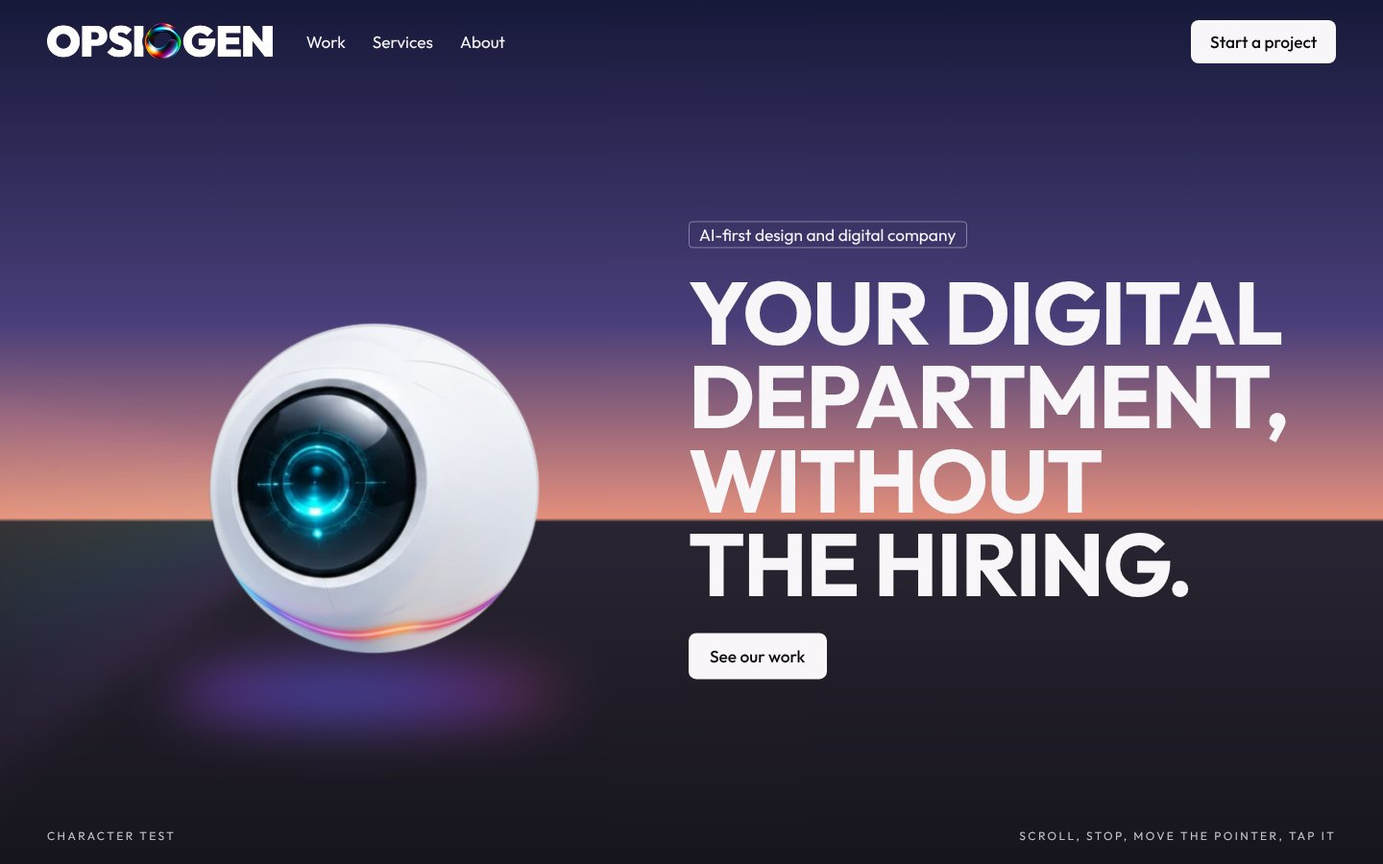
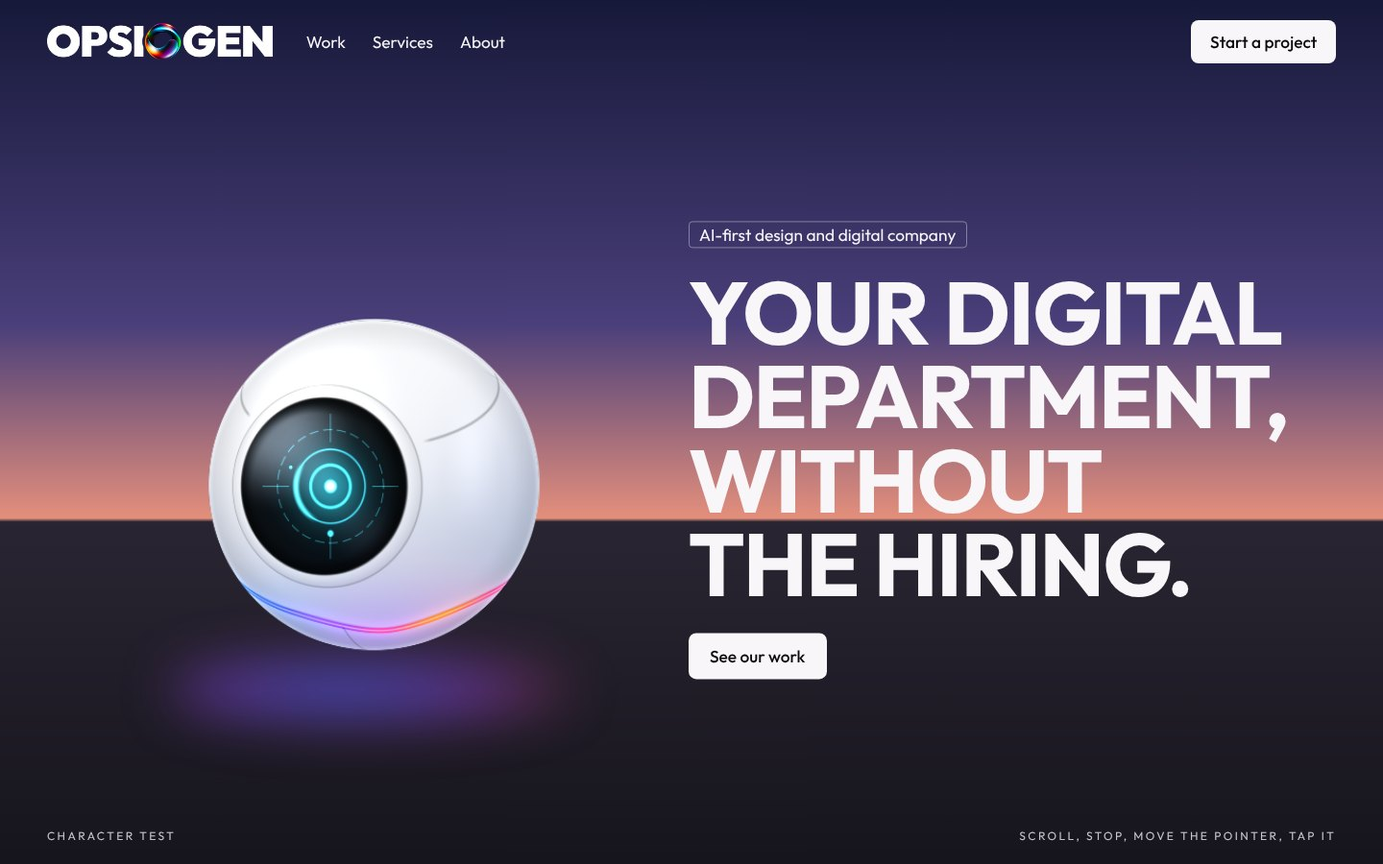
Hero prototype: the character is now a real 3D model, built to the owner's design
Stitching the owner's six small renders could not turn cleanly, so the
character is modelled and drawn live instead: exact and sharp from every
angle. The light tail now streams from its back toward the viewer.

Claude-Session: https://claude.ai/code/session_011BdSE2fEeiEv9ZgoYmWAPn

Changed region(s): [[0.125, 0.3733, 0.4062, 0.7778], [0.2812, 0.3733, 0.3438, 0.4044], [0.25, 0.3422, 0.2812, 0.3733]]

diff --git a/design/hero/orb-proto/index.html b/design/hero/orb-proto/index.html
@@ -43,11 +43,13 @@
   .orb canvas, .orb img { position: absolute; inset: 0; width: 100%; height: 100%; display: block; }
   .ground { position: absolute; left: 6%; right: 6%; bottom: -10%; height: 16%; border-radius: 50%; filter: blur(22px); mix-blend-mode: screen;
     background: radial-gradient(ellipse at 42% 50%, rgb(40 110 255 / 0.7), rgb(150 70 255 / 0.55) 45%, rgb(255 80 170 / 0.3) 62%, rgb(255 80 170 / 0) 76%); will-change: opacity, transform; }
-  /* the light tail: a rainbow beam that streams out behind it while it travels, mixed into the scene as light */
-  .trail { position: absolute; z-index: 3; left: 27%; top: 56%; width: 70vw; height: 70vw; transform-origin: 100% 50%; transform: translate(-100%, -50%) rotate(-13deg); opacity: 0; pointer-events: none; mix-blend-mode: screen; will-change: opacity, transform; }
-  .trail i { position: absolute; inset: 0; filter: blur(clamp(6px, 0.9vw, 14px));
-    background: conic-gradient(from 252deg at 100% 50%, rgb(180 92 255 / 0) 0deg, #b45cff 4deg, #5b7bff 9deg, #37d6ff 14deg, #5ff08a 19deg, #ffe14a 24deg, #ff8a3c 29deg, #ff4f8b 33deg, rgb(255 79 139 / 0) 37deg, transparent 37deg);
-    -webkit-mask-image: linear-gradient(90deg, transparent 4%, rgb(0 0 0 / 0.6) 45%, #000 82%, rgb(0 0 0 / 0.9) 100%); mask-image: linear-gradient(90deg, transparent 4%, rgb(0 0 0 / 0.6) 45%, #000 82%, rgb(0 0 0 / 0.9) 100%); }
+  /* the light tail: it streams from the character's back toward us, low and to the left, widening as it comes.
+     It sits under the character, so it appears from behind its edge. */
+  .trail { position: absolute; z-index: 3; left: 27%; top: 56%; width: 150vmax; height: 150vmax; transform: translate(-50%, -50%); opacity: 0; pointer-events: none; will-change: opacity, transform; }
+  .trail i { position: absolute; inset: 0; filter: blur(clamp(8px, 1.1vw, 18px));
+    background: conic-gradient(from 214deg at 50% 50%, rgb(180 92 255 / 0) 0deg, #b45cff 5deg, #5b7bff 10deg, #37d6ff 15deg, #5ff08a 20deg, #ffe14a 25deg, #ff8a3c 30deg, #ff4f8b 35deg, rgb(255 79 139 / 0) 40deg, transparent 40deg);
+    -webkit-mask-image: radial-gradient(circle at 50% 50%, #000 0, rgb(0 0 0 / 0.95) 9%, rgb(0 0 0 / 0.75) 22%, rgb(0 0 0 / 0.35) 38%, transparent 52%); mask-image: radial-gradient(circle at 50% 50%, #000 0, rgb(0 0 0 / 0.95) 9%, rgb(0 0 0 / 0.75) 22%, rgb(0 0 0 / 0.35) 38%, transparent 52%); }
+  .trail i + i { mix-blend-mode: screen; opacity: 0.7; }
 
   .foot { position: absolute; z-index: 5; inset: auto 0 0; display: flex; align-items: flex-end; justify-content: space-between; gap: 16px; padding: 0 clamp(16px, 3.4vw, 65px) max(22px, env(safe-area-inset-bottom, 0px)); font-size: 12px; letter-spacing: 0.2em; text-transform: uppercase; color: var(--soft); }
 
@@ -55,7 +57,6 @@
     .bar nav { display: none; }
     .words { right: 0; left: 0; top: clamp(84px, 13vh, 130px); transform: none; width: auto; padding-inline: max(20px, env(safe-area-inset-left, 0px)); }
     .orb, .trail { left: 46%; top: 70%; }
-    .trail { width: 90vw; }
     .orb { width: clamp(170px, 54vw, 280px); }
     .foot span:last-child { display: none; }
   }
@@ -75,7 +76,7 @@
       <span class="cta">Start a project</span>
     </div>
 
-    <div class="trail" id="trail"><i></i></div>
+    <div class="trail" id="trail"><i></i><i></i></div>
     <div class="orb" id="orb" role="button" tabindex="0" aria-label="The Opsiogen character. Press to say hello.">
       <div class="ground" id="ground"></div>
       <img id="fallback" src="img/front.webp" alt="">
@@ -96,13 +97,14 @@
 </section>
 
 <section class="after" id="after">
-  <div class="gutter"><p>A test of the character only, on a plain stage. Scroll and it turns to look ahead; stop and it turns back to you. Move the pointer and its eye follows. Tap it and it says hello. The places and our work are added once the script is approved.</p></div>
+  <div class="gutter"><p>A test of the character only, on a plain stage. It is a live 3D model built to the supplied design. Scroll and it turns to look ahead; stop and it turns back to you. Move the pointer and its eye follows. Tap it and it says hello. The places and our work are added once the script is approved.</p></div>
 </section>
 
 <script>
 (function () {
-  // The character is the owner's artwork. Their front, side and back views are wrapped into one map of the whole sphere
-  // (design/hero/character/wrap.py), so it turns as one solid body, lit by the artwork's own soft light.
+  // The character is a real model, built to the owner's design and drawn live: a glossy white sphere, a dark glass eye in a
+  // bevelled ring with cyan instrument light inside, a lit colour strip round the lower body that goes dark across the back,
+  // and fine panel seams. Being a model, it is exact and sharp from every angle; nothing is stitched from pictures.
   var canvas = document.getElementById("ball"), fallback = document.getElementById("fallback"), orb = document.getElementById("orb"), ground = document.getElementById("ground"),
       trail = document.getElementById("trail"), world = document.getElementById("world"), rays = document.getElementById("rays");
   var still = window.matchMedia("(prefers-reduced-motion: reduce)").matches;
@@ -111,56 +113,118 @@
   var VS = "attribute vec2 a;void main(){gl_Position=vec4(a,0.,1.);}";
   var FS = [
     "precision highp float;",
-    "uniform vec2 uRes; uniform float uYaw, uBlink, uFlash; uniform vec2 uLook; uniform sampler2D uF, uW, uLF, uLB;",
+    "uniform vec2 uRes; uniform float uYaw, uPitch, uBlink, uFlash, uTime; uniform vec2 uLook;",
+    "const float E=.56, B=.10;",                                                    // the eye's size, and its ring's width (as angles)
+    "const vec3 GL=vec3(.25,.92,1.);",
+    "vec3 glowCol(float x){ return mix(mix(vec3(.22,.5,1.),vec3(.6,.35,1.),smoothstep(-.7,0.,x)), vec3(1.,.32,.72), smoothstep(0.,.7,x)); }",
+    // the room it is lit by: bright above, cool at the sides, one large soft light up and to the left, coloured light from below
+    "vec3 room(vec3 d){",
+    "  vec3 e=mix(vec3(.60,.64,.74), vec3(.985,.99,1.), smoothstep(-.55,.65,d.y));",
+    "  e+=vec3(1.)*smoothstep(.42,.05,length(d.xy-vec2(-.42,.52)))*step(0.,d.z)*.55;",
+    "  e+=vec3(.9,.95,1.)*smoothstep(.16,.02,abs(d.x-.62))*smoothstep(.55,.1,abs(d.y-.1))*step(0.,d.z)*.22;",
+    "  return mix(e, glowCol(d.x)*1.05, smoothstep(-.3,-.95,d.y)*.8);",
+    "}",
+    "vec3 lit(vec3 n, vec3 alb, float gloss){",                                    // a glossy painted surface in that room
+    "  float k=dot(n,normalize(vec3(-.5,.64,.58)))*.72+n.y*.28;",
+    "  vec3 c=alb*mix(vec3(.78,.81,.89), vec3(1.), smoothstep(-.45,.8,k));",
+    "  c=mix(c, c*.55+glowCol(n.x)*.5, smoothstep(-.42,-1.,n.y)*.62);",              // the coloured light catching the underside
+    "  float f=.04+.55*pow(1.-max(n.z,0.),3.);",
+    "  c=mix(c, room(reflect(vec3(0.,0.,-1.),n)), f*gloss);",
+    "  c+=gloss*(.10*smoothstep(.6,0.,length(n.xy-vec2(-.36,.5)))+.05*smoothstep(.2,0.,abs(n.x-.6))*smoothstep(.5,0.,abs(n.y-.15))+.5*pow(max(dot(n,normalize(vec3(-.36,.5,.79))),0.),260.));",
+    "  return c;",
+    "}",
+    "float ctl(float i){ i=mod(i,6.); if(i<.5) return -.47; if(i<1.5) return -.86; if(i<2.5) return -1.06; if(i<3.5) return -.70; if(i<4.5) return -.42; return -.44; }",
+    "float stripLat(float lon){",                                                   // where the strip runs: a smooth wave round the body
+    "  float x=(lon+1.5708)/1.0472, i=floor(x), t=x-i;",
+    "  float p0=ctl(i-1.), p1=ctl(i), p2=ctl(i+1.), p3=ctl(i+2.);",
+    "  return .5*(2.*p1+(p2-p0)*t+(2.*p0-5.*p1+4.*p2-p3)*t*t+(3.*p1-p0-3.*p2+p3)*t*t*t);",
+    "}",
+    "vec3 stripCol(float t){",                                                      // its colours, round the body from the left of the eye
+    "  vec3 c=vec3(.1,.85,1.);",
+    "  c=mix(c,vec3(.2,.45,1.),smoothstep(.0,.12,t)); c=mix(c,vec3(.62,.3,1.),smoothstep(.12,.24,t)); c=mix(c,vec3(1.,.25,.72),smoothstep(.24,.33,t));",
+    "  c=mix(c,vec3(1.,.55,.14),smoothstep(.33,.42,t)); c=mix(c,vec3(1.,.3,.6),smoothstep(.42,.5,t)); c=mix(c,vec3(.6,.32,1.),smoothstep(.5,.58,t));",
+    "  c=mix(c,vec3(.2,.6,1.),smoothstep(.58,.66,t)); c=mix(c,vec3(1.,.3,.7),smoothstep(.8,.9,t)); c=mix(c,vec3(.1,.85,1.),smoothstep(.93,1.,t));",
+    "  return c;",
+    "}",
     "void main(){",
-    "  vec2 p=(gl_FragCoord.xy-.5*uRes)/(.5*uRes.x); float R=.84; float r=length(p)/R;",   // the sphere fills the same part of the box as in the artwork
+    "  vec2 p=(gl_FragCoord.xy-.5*uRes)/(.5*uRes.x); float R=.84, r=length(p)/R, aa=2.4/(R*uRes.x);",
     "  if(r>1.){ gl_FragColor=vec4(0.); return; }",
     "  vec3 n=vec3(p/R, sqrt(max(0.,1.-r*r)));",
-    "  float c=cos(uYaw), s=sin(uYaw);",
-    "  vec3 o=vec3(dot(n,vec3(c,0.,s)), n.y, dot(n,vec3(-s,0.,c)));",               // the same point on the character itself
-    "  float q=uYaw/1.5708, rho=length(o.xy);",                                     // q: 0 front, 1 side, 2 back
-    // what is drawn on the body turns with it; the artwork's own soft light stays where it is on screen
-    "  float lon=atan(o.x,o.z); if(lon<-1.5708) lon+=6.2832;",
-    "  vec4 wr=texture2D(uW, vec2((lon+1.5708)/6.2832, asin(clamp(o.y,-1.,1.))/3.1416+.5));",
-    "  vec2 lu=.5+.42*n.xy*.97;",
-    "  vec3 light=mix(texture2D(uLF,lu).rgb, texture2D(uLB,lu).rgb, smoothstep(.4,1.6,q));",   // the front view's light, easing to the back view's
-    "  vec3 col=wr.rgb*mix(light,vec3(1.),wr.a);",
-    // the eye is the front view itself; the light inside it slides toward what it looks at
-    "  vec2 fo=o.xy-uLook*(1.-smoothstep(.24,.50,rho))*step(0.,o.z);",
-    "  col=mix(col, texture2D(uF,.5+.42*fo).rgb, step(0.,o.z)*smoothstep(.80,.72,rho));",
-    // a digital blink: the eye's light drops to one thin line, then comes back with a flash
-    "  vec3 GL=vec3(.3,.92,1.); float eye=step(0.,o.z)*smoothstep(.55,.51,rho);",
-    "  vec3 off=col*.10+GL*smoothstep(.022,.0,abs(o.y))*smoothstep(.47,.15,abs(o.x))*1.3;",
-    "  col=mix(col, off, uBlink*eye);",
-    "  col+=GL*uFlash*(eye*exp(-pow(rho/.30,2.))*.9+step(0.,o.z)*smoothstep(.80,.55,rho)*.10);",
-    "  gl_FragColor=vec4(col, smoothstep(1.,.985,r));",
+    "  float cy=cos(uYaw), sy=sin(uYaw), cp=cos(uPitch), sp=sin(uPitch);",
+    "  vec3 q=vec3(n.x, n.y*cp-n.z*sp, n.y*sp+n.z*cp);",
+    "  vec3 o=vec3(q.x*cy+q.z*sy, q.y, -q.x*sy+q.z*cy);",                           // the same point on the character itself
+    "  vec3 axis=vec3(-sy, cy*sp, cy*cp);",                                         // where the eye points, as seen
+    "  vec3 rd=vec3(-cp*sy, sp, -cp*cy);",                                          // the line of sight, in the character's own terms
+    "  float ang=acos(clamp(o.z,-1.,1.)), lat=asin(clamp(o.y,-1.,1.)), lon=atan(o.x,o.z); if(lon<-1.5708) lon+=6.2832;",
+
+    // ---- body
+    "  vec3 col=lit(n, vec3(.975,.98,.99), 1.);",
+    "  float f0=stripLat(lon), f1=stripLat(lon+.02);",
+    "  float d=(lat-f0)/sqrt(1.+pow((f1-f0)/.02/max(cos(lat),.25),2.));",           // how far this point is from the strip
+    "  float t=(lon+1.5708)/6.2832, on=1.-smoothstep(.655,.70,t)*(1.-smoothstep(.80,.845,t));",   // lit, except across the back
+    "  vec3 sc=stripCol(t); float hw=.032;",
+    "  col+=sc*on*exp(-pow(d/.10,2.))*.20;",                                        // its light on the body beside it
+    "  col*=1.-.30*smoothstep(hw+.022,hw,abs(d))*step(0.,d)*(1.-on*.5);",            // a soft shadow along its upper lip
+    "  vec3 led=mix(sc*1.05, vec3(1.), .55*exp(-pow(d/(hw*.34),2.)));",
+    "  vec3 dark=vec3(.035,.045,.06)+room(reflect(vec3(0.,0.,-1.),n))*.10;",          // the same channel, unlit: dark and glossy
+    "  col=mix(col, mix(dark, led, on), smoothstep(hw+aa,hw-aa,abs(d)));",
+    "  col=mix(col, vec3(.05,.06,.08), smoothstep(aa*1.4,0.,abs(d-hw-.006))*.8*(1.-on));",   // a crisp edge where it is dark
+    // fine panel seams
+    "  float s1=abs(dot(o,normalize(vec3(.12,.9,.42)))-.63), s2=abs(dot(o,normalize(vec3(-.1,.93,-.35)))-.56);",
+    "  col*=1.-.26*smoothstep(aa*1.6,0.,s1)*smoothstep(E+B+.05,E+B+.12,ang);",
+    "  col*=1.-.20*smoothstep(aa*1.6,0.,s2)*smoothstep(.1,-.2,o.z);",
+    "  col*=1.-.20*smoothstep(aa*1.6,0.,abs(o.x))*step(0.,o.z)*smoothstep(-.80,-.86,o.y)*smoothstep(f0+.02,f0-.04,lat);",
+    "  col*=1.-.07*smoothstep(.80,.97,r); col+=.10*smoothstep(.962,1.,r);",          // the glossy edge
+
+    // ---- the ring round the eye: a bevel that turns in toward the glass
+    "  float rt=(ang-E)/B;",
+    "  vec3 nr=normalize(n+axis*(.5*(1.-rt)));",
+    "  vec3 ring=lit(nr, vec3(.985,.99,1.), 1.2)*(1.02-.10*rt);",
+    "  ring*=1.-.7*smoothstep(.16,.0,rt); ring*=1.-.25*smoothstep(aa*2.,0.,abs(ang-E-B));",
+    "  col=mix(col, ring, smoothstep(E+B+aa,E+B-aa,ang));",
+
+    // ---- the eye: dark glass, with instrument light set a little way inside it
+    "  float zp=cos(E)-.11, tt=(o.z-zp)/max(-rd.z,.22);",
+    "  vec2 h=((o.xy+rd.xy*tt)/sin(E)-uLook)*.56; float hr=length(h), ha=atan(h.y,h.x);",
+    "  float lum=exp(-pow(hr/.20,2.))*.55+smoothstep(.05,.025,hr)*1.2;",             // the glow and the bright centre
+    "  lum+=smoothstep(.016,0.,abs(hr-.135))*1.0+smoothstep(.011,0.,abs(hr-.235))*.7;",   // two rings
+    "  lum+=smoothstep(.007,0.,abs(hr-.36))*.4*step(.32,fract(ha*3.82+uTime*.05));",       // an outer dashed ring, turning slowly
+    "  lum+=smoothstep(.03,0.,abs(hr-.235))*smoothstep(.55,.98,cos(ha+2.4-sin(uTime*.5)*.5))*1.1;",   // a bright arc
+    "  lum+=smoothstep(.006,0.,min(abs(h.x),abs(h.y)))*step(.28,hr)*step(hr,.46)*.5;",      // cross ticks
+    "  lum+=smoothstep(.028,.012,length(h-vec2(0.,-.30)))*1.1+smoothstep(.016,.006,length(h-vec2(-.27,.12)))*.8;",   // small lights
+    "  lum*=smoothstep(.52,.46,hr);",
+    "  vec3 inner=vec3(.006,.022,.032)+vec3(.0,.05,.07)*smoothstep(.55,.15,hr);",
+    "  inner+=GL*lum*(1.-uBlink)+vec3(1.)*smoothstep(.05,.02,hr)*.5*(1.-uBlink);",
+    "  inner+=GL*uBlink*smoothstep(.012,0.,abs(h.y))*smoothstep(.42,.12,abs(h.x))*1.4;",      // the blink: the light drops to one line
+    "  inner+=GL*uFlash*exp(-pow(hr/.28,2.))*.9;",                                           // and comes back with a flash
+    "  vec3 ng=normalize(mix(n, axis, .30));",                                      // the glass is a flatter dome than the body
+    "  float fg=.05+.85*pow(1.-max(ng.z,0.),4.);",
+    "  vec3 glass=inner+room(reflect(vec3(0.,0.,-1.),ng))*fg;",
+    "  vec2 e2=(n.xy-axis.xy)/sin(E);",                                            // across the glass as we see it
+    "  glass+=vec3(.78,.85,.93)*smoothstep(.95,.1,length(e2-vec2(-.42,.62)))*smoothstep(1.02,.8,length(e2))*.52;",   // the soft light reflected in it
+    "  glass+=vec3(.6,.7,.8)*smoothstep(.5,.0,length(e2-vec2(.55,-.5)))*.10;",     // the soft light reflected in it
+    "  glass+=vec3(1.)*pow(max(dot(ng,normalize(vec3(-.36,.5,.79))),0.),420.)*.9;",
+    "  glass*=1.-.5*smoothstep(E*.80,E,ang);",                                      // darker where the glass meets the ring
+    "  col=mix(col, glass, smoothstep(E+aa,E-aa,ang));",
+    "  col+=GL*uFlash*.08*smoothstep(E+B+.25,E,ang);",
+    "  gl_FragColor=vec4(col, smoothstep(1.,1.-aa*1.2,r));",
     "}"].join("\n");
 
-  var U = {}, ready = false, loaded = 0;
+  var U = {}, ready = false;
   if (gl) {
-    var sh = function (t, src) { var x = gl.createShader(t); gl.shaderSource(x, src); gl.compileShader(x); return x; };
+    var sh = function (t, src) { var x = gl.createShader(t); gl.shaderSource(x, src); gl.compileShader(x); if (!gl.getShaderParameter(x, gl.COMPILE_STATUS)) console.error(gl.getShaderInfoLog(x)); return x; };
     var prog = gl.createProgram(); gl.attachShader(prog, sh(gl.VERTEX_SHADER, VS)); gl.attachShader(prog, sh(gl.FRAGMENT_SHADER, FS)); gl.linkProgram(prog);
     if (gl.getProgramParameter(prog, gl.LINK_STATUS)) {
       gl.useProgram(prog);
       var buf = gl.createBuffer(); gl.bindBuffer(gl.ARRAY_BUFFER, buf); gl.bufferData(gl.ARRAY_BUFFER, new Float32Array([-1, -1, 1, -1, -1, 1, 1, 1]), gl.STATIC_DRAW);
       var loc = gl.getAttribLocation(prog, "a"); gl.enableVertexAttribArray(loc); gl.vertexAttribPointer(loc, 2, gl.FLOAT, false, 0, 0);
-      ["uRes", "uYaw", "uBlink", "uFlash", "uLook", "uF", "uW", "uLF", "uLB"].forEach(function (k) { U[k] = gl.getUniformLocation(prog, k); });
+      ["uRes", "uYaw", "uPitch", "uBlink", "uFlash", "uTime", "uLook"].forEach(function (k) { U[k] = gl.getUniformLocation(prog, k); });
       gl.enable(gl.BLEND); gl.blendFunc(gl.SRC_ALPHA, gl.ONE_MINUS_SRC_ALPHA);
-      ["front.webp", "wrap.png", "light-front.png", "light-back.png"].forEach(function (name, i) {
-        var tex = gl.createTexture(), im = new Image();
-        im.onload = function () {
-          gl.activeTexture(gl.TEXTURE0 + i); gl.bindTexture(gl.TEXTURE_2D, tex); gl.pixelStorei(gl.UNPACK_FLIP_Y_WEBGL, true);
-          gl.texImage2D(gl.TEXTURE_2D, 0, gl.RGBA, gl.RGBA, gl.UNSIGNED_BYTE, im);
-          gl.texParameteri(gl.TEXTURE_2D, gl.TEXTURE_WRAP_S, gl.CLAMP_TO_EDGE); gl.texParameteri(gl.TEXTURE_2D, gl.TEXTURE_WRAP_T, gl.CLAMP_TO_EDGE);
-          gl.texParameteri(gl.TEXTURE_2D, gl.TEXTURE_MIN_FILTER, gl.LINEAR); gl.texParameteri(gl.TEXTURE_2D, gl.TEXTURE_MAG_FILTER, gl.LINEAR);
-          if (++loaded === 4) { ready = true; canvas.hidden = false; fallback.hidden = true; }
-        };
-        im.src = "img/" + name;
-      });
+      ready = true; canvas.hidden = false; fallback.hidden = true;
     }
   }
 
-  var yaw = 0, speed = 0, lastY = window.scrollY, lastMove = -1e9, want = [0, 0], look = [0, 0], blink = 0, blinkAt = 2.2, hello = -10, over = 0, wasMoving = false;
+  var yaw = 0, pitch = 0, speed = 0, lastY = window.scrollY, lastMove = -1e9, want = [0, 0], look = [0, 0], blink = 0, blinkAt = 2.2, hello = -10, over = 0, wasMoving = false;
   window.addEventListener("scroll", function () { var y = window.scrollY; speed += Math.min(60, Math.abs(y - lastY)); lastY = y; lastMove = performance.now(); }, { passive: true });
   window.addEventListener("pointermove", function (e) {
     var r = orb.getBoundingClientRect(), dx = e.clientX - (r.left + r.width / 2), dy = e.clientY - (r.top + r.height / 2);
@@ -175,34 +239,36 @@
   var prev = performance.now(), grow = 0, tail = 0;
   function frame(now) {
     var dt = Math.min(0.05, (now - prev) / 1000); prev = now; var t = now / 1000;
-    var moving = !still && now - lastMove < 1100;                      // short gaps between scroll steps do not count as stopping
+    var moving = !still && now - lastMove < 1100;                     // short gaps between scroll steps do not count as stopping
     speed *= Math.pow(0.02, dt); var v = still ? 0 : Math.min(1, speed / 90);
-    var since = t - hello, wiggle = since < 1.1 ? Math.sin(since * 13) * 0.5 * (1 - since / 1.1) : 0;       // a tap: it shakes its head and blinks twice
+    var since = t - hello, wiggle = since < 1.1 ? Math.sin(since * 13) * 0.45 * (1 - since / 1.1) : 0;      // a tap: it shakes its head and blinks twice
     if (since > 0.44 && since < 0.48) blink = 1;
-    var target = moving ? Math.PI : clamp(-want[0] * 0.6, -0.22, 0.22) + wiggle;                              // looks ahead while moving, else toward the pointer
+    var target = moving ? Math.PI : clamp(-want[0] * 1.1, -0.5, 0.5) + wiggle;                                // looks ahead while moving, else toward the pointer
     yaw += (target - yaw) * (1 - Math.pow(moving ? 0.003 : 0.03, dt));                                         // quick to look ahead, gentler coming back
-    if (typeof window.__testYaw === "number") yaw = window.__testYaw;                                          // for checking a pose
-    var lx = moving ? 0 : clamp(want[0] * 0.5, -0.1, 0.1), ly = moving ? 0 : clamp(-want[1] * 0.5, -0.1, 0.1);
+    pitch += ((moving ? -0.06 : clamp(-want[1] * 0.8, -0.3, 0.3)) - pitch) * (1 - Math.pow(0.02, dt));
+    if (typeof window.__testYaw === "number") { yaw = window.__testYaw; pitch = window.__testPitch || 0; }     // for checking a pose
+    var lx = moving ? 0 : clamp(want[0] * 0.9, -0.16, 0.16), ly = moving ? 0 : clamp(-want[1] * 0.9, -0.16, 0.16);
     look[0] += (lx - look[0]) * 0.14; look[1] += (ly - look[1]) * 0.14;
     if (wasMoving && !moving) blinkAt = t + 1.6;                                                              // no blink while it is still coming round
     wasMoving = moving;
-    if (!moving && Math.abs(yaw) < 0.4 && t > blinkAt) { blink = 1; blinkAt = t + 3 + Math.random() * 3.5; }
+    if (!moving && Math.abs(yaw) < 0.6 && t > blinkAt) { blink = 1; blinkAt = t + 3 + Math.random() * 3.5; }
     blink = Math.max(0, blink - dt / 0.34);                              // one blink lasts about a third of a second
     var ph = 1 - blink, dim = blink <= 0 ? 0 : ph < 0.3 ? ph / 0.3 : ph < 0.5 ? 1 : Math.max(0, 1 - (ph - 0.5) / 0.12), flash = blink > 0 && ph > 0.55 ? Math.sin((ph - 0.55) / 0.45 * Math.PI) : 0;
     grow += ((over && !moving ? 1 : 0) - grow) * 0.12;
     var bob = still ? 0 : Math.sin(t * 1.7) * 6, push = v * 10, hop = since < 0.5 ? -Math.sin(since / 0.5 * Math.PI) * 14 : 0;
-    orb.style.transform = "translate(-50%,-50%) translate(" + (push * 0.6).toFixed(1) + "px," + (bob - push * 0.3 + hop).toFixed(1) + "px) rotate(" + (v * -4 + (moving ? 0 : want[1] * -6)).toFixed(2) + "deg) scale(" + (1 + grow * 0.06).toFixed(3) + ")";
+    orb.style.transform = "translate(-50%,-50%) translate(" + (push * 0.6).toFixed(1) + "px," + (bob - push * 0.3 + hop).toFixed(1) + "px) scale(" + (1 + grow * 0.06).toFixed(3) + ")";
     ground.style.opacity = (0.8 + grow * 0.2 + 0.1 * Math.sin(t * 1.3)).toFixed(3); ground.style.transform = "scale(" + (1 + grow * 0.18 - hop * 0.004).toFixed(3) + ")";
-    tail += ((moving ? 1 : 0) - tail) * (1 - Math.pow(moving ? 0.002 : 0.05, dt));                           // it comes on as the character sets off and fades when it stops
-    trail.style.opacity = (tail * (0.8 + 0.2 * v)).toFixed(3); trail.style.transform = "translate(-100%,-50%) rotate(-13deg) scaleX(" + (0.55 + 0.45 * tail).toFixed(3) + ")";
+    tail += ((moving ? 1 : 0) - tail) * (1 - Math.pow(moving ? 0.01 : 0.05, dt));                             // the light tail comes on as it sets off and fades when it stops
+    var back = clamp((yaw - 1.9) / 1.0, 0, 1) * tail;                                                         // and only once its back is turned to us
+    trail.style.opacity = back.toFixed(3); trail.style.transform = "translate(-50%,-50%) rotate(" + (Math.sin(t * 1.1) * 1.2).toFixed(2) + "deg) scale(" + (0.6 + 0.4 * back + v * 0.05).toFixed(3) + ")";
     world.style.transform = "scale(" + (1 + v * 0.06).toFixed(4) + ")";
     rays.style.opacity = (v * 0.2).toFixed(3); rays.style.transform = "scale(" + (1 + ((t * 1.4) % 1) * 0.25).toFixed(3) + ")";
     if (ready) {
       var w = canvas.clientWidth * Math.min(2, window.devicePixelRatio || 1) | 0;
       if (canvas.width !== w && w > 0) { canvas.width = w; canvas.height = w; }
       gl.viewport(0, 0, canvas.width, canvas.height); gl.clearColor(0, 0, 0, 0); gl.clear(gl.COLOR_BUFFER_BIT);
-      gl.uniform2f(U.uRes, canvas.width, canvas.height); gl.uniform1f(U.uYaw, yaw); gl.uniform1f(U.uBlink, dim); gl.uniform1f(U.uFlash, flash);
-      gl.uniform2f(U.uLook, look[0], look[1]); gl.uniform1i(U.uF, 0); gl.uniform1i(U.uW, 1); gl.uniform1i(U.uLF, 2); gl.uniform1i(U.uLB, 3);
+      gl.uniform2f(U.uRes, canvas.width, canvas.height); gl.uniform1f(U.uYaw, yaw); gl.uniform1f(U.uPitch, pitch); gl.uniform1f(U.uTime, still ? 0 : t);
+      gl.uniform1f(U.uBlink, dim); gl.uniform1f(U.uFlash, flash); gl.uniform2f(U.uLook, look[0], look[1]);
       gl.drawArrays(gl.TRIANGLE_STRIP, 0, 4);
     }
     requestAnimationFrame(frame);

diff --git a/LAUNCH-CHECKLIST.md b/LAUNCH-CHECKLIST.md
@@ -42,7 +42,7 @@ Tick items as they are done.
 - [ ] Backup plan, only after the owner confirms: keep the earlier big heading that fills the first screen and put moving work behind it. Two rows of our work tiles (images and short silent loops, mixed widths, one height) drift slowly sideways on the dark band, as on the reference the owner shared (Envato's AI video page). Use our own work and our own layout, not theirs. No image or video credits needed.
 - [ ] Also tried, waiting for the owner's pick: a ribbon of our work cards that lands on a tilted board on scroll (working prototype in `design/hero/cards-proto`, no credits needed), and our own character running through the studio rooms, each room one service (`design/hero/character-lineup.png`, `character-hero-mock.jpg`; needs video credits).
 - [ ] Latest direction from the owner (17 Nov): outdoors only, no studio. A floating sphere character with one glass eye flies through five outdoor worlds, one per service (`design/hero/orb-character-sheet.png`, `orb-hero-mock.jpg`, `worlds-all.jpg`). The worlds were drawn with an earlier octopus stand-in and need redrawing with the sphere. Needs video credits.
-- [ ] Owner's notes on that direction (17 Nov): the character looks ahead at the location while the page scrolls and turns to face the visitor when scrolling stops (working prototype in `design/hero/orb-proto`); no logo on the character: the character is the owner's own artwork, used unchanged (`design/hero/character`: source renders and cut-out views); it turns smoothly as one solid body (the owner's views are wrapped into one map by `design/hero/character/wrap.py`), lit by the artwork's own soft light so its look does not change as it turns, blinks like a light (no lids), leaves a rainbow light tail while it travels, follows the pointer with its eye and answers a tap; AI-made people are acceptable in the scenes; nothing of ours is shown along the road, only at the stops; no designs on roadside screens, each location shows a service as it appears in real life (`scene-brand-cyclist.png`, `scene-booth.png`).
+- [ ] Owner's notes on that direction (17 Nov): the character looks ahead at the location while the page scrolls and turns to face the visitor when scrolling stops (working prototype in `design/hero/orb-proto`); no logo on the character: the character is a live 3D model built to the owner's design (their renders are kept in `design/hero/character` as the reference): it turns cleanly at every angle, blinks like a light, follows the pointer with its eye, answers a tap, and leaves a rainbow light tail from its back while it travels; AI-made people are acceptable in the scenes; nothing of ours is shown along the road, only at the stops; no designs on roadside screens, each location shows a service as it appears in real life (`scene-brand-cyclist.png`, `scene-booth.png`).
 - Home today shows the trial picture of the glass studio (day in the light theme, night in the dark theme).
 
 ## Already done (4 November 2026)
